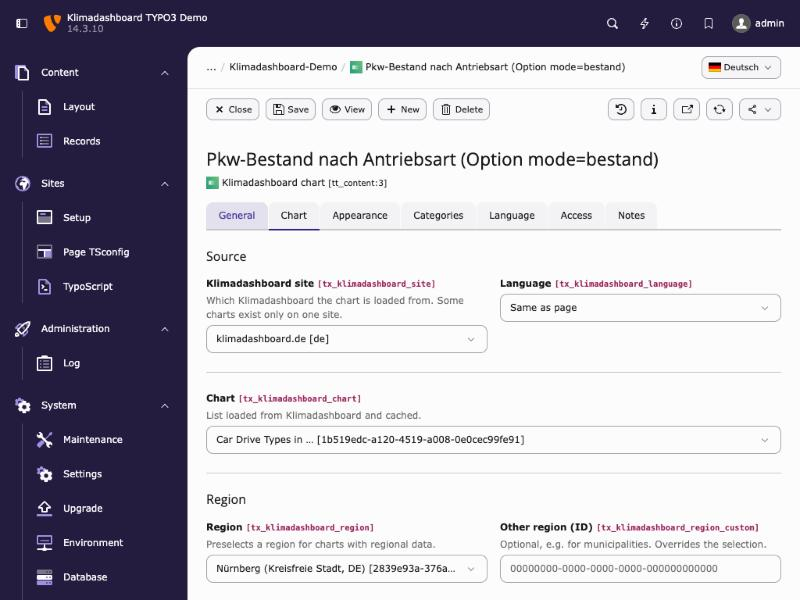
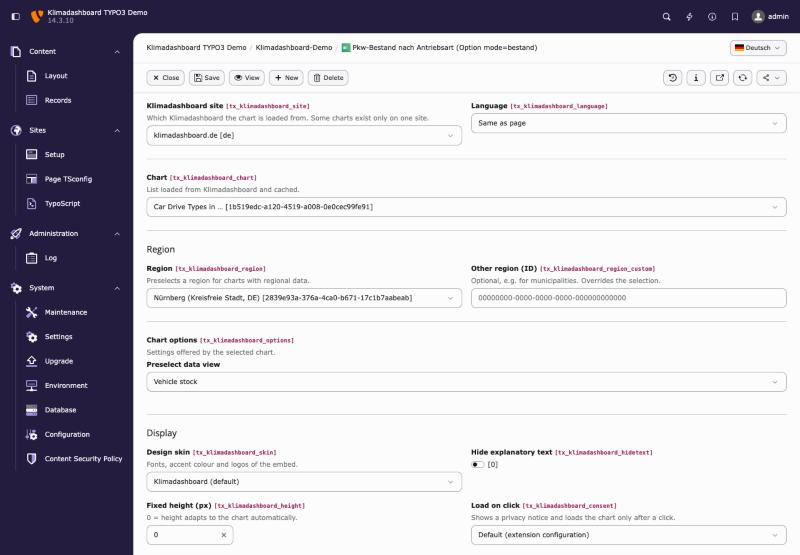
Render the chart options label on TYPO3 v14; refresh screenshots
TYPO3 v14 form elements render their own label, so the options element is
wrapped in a fieldset with legend there.

Changed region(s): [[0.0, 0.0, 1.0, 1.0], [0.5938, 0.7964, 0.8125, 0.8577]]

diff --git a/Classes/Form/Element/EmbedOptionsElement.php b/Classes/Form/Element/EmbedOptionsElement.php
@@ -9,6 +9,7 @@ use Klimadashboard\Typo3\Service\EmbedUrlBuilder;
 use Klimadashboard\Typo3\Service\KlimadashboardApi;
 use Klimadashboard\Typo3\Service\Settings;
 use TYPO3\CMS\Backend\Form\Element\AbstractFormElement;
+use TYPO3\CMS\Core\Information\Typo3Version;
 use TYPO3\CMS\Core\Utility\GeneralUtility;
 
 /**
@@ -76,10 +77,14 @@ class EmbedOptionsElement extends AbstractFormElement
         $fieldInformationResult = $this->renderFieldInformation();
         $resultArray = $this->mergeChildReturnIntoExistingResult($resultArray, $fieldInformationResult, false);
 
-        $resultArray['html'] = '<div class="formengine-field-item t3js-formengine-field-item">'
+        $html = '<div class="formengine-field-item t3js-formengine-field-item">'
             . $fieldInformationResult['html']
             . '<div class="form-wizards-wrap"><div class="form-wizards-element">' . $html . '</div></div>'
             . '</div>';
+        // TYPO3 v14 elements render their own label; before, the surrounding container did
+        $resultArray['html'] = GeneralUtility::makeInstance(Typo3Version::class)->getMajorVersion() >= 14
+            ? $this->wrapWithFieldsetAndLegend($html)
+            : $html;
         return $resultArray;
     }
 

diff --git a/README.md b/README.md
@@ -24,9 +24,11 @@ charts from [Klimadashboard](https://klimadashboard.org) (klimadashboard.de, .at
 
 Compatible with **TYPO3 11.5 LTS, 12.4 LTS, 13.4 LTS and 14.3 LTS**, PHP 7.4–8.4.
 
-| Frontend (auto-height) | Backend (chart tab) | Click-to-load |
-|---|---|---|
-| ![](Documentation/Images/frontend-demo.jpg) | ![](Documentation/Images/backend-chart-tab.jpg) | ![](Documentation/Images/click-to-load.jpg) |
+| Frontend (auto-height) | Editing form (Chart tab) |
+|---|---|
+| ![](Documentation/Images/frontend-demo.jpg) | ![](Documentation/Images/backend-chart-tab.jpg) |
+| **Page module preview** | **Click-to-load** |
+| ![](Documentation/Images/backend-page-module.jpg) | ![](Documentation/Images/click-to-load.jpg) |
 
 **Test status:** tested end to end on **TYPO3 14.3 / PHP 8.4** and **TYPO3 11.5.41 / PHP 8.1** (DDEV setup
 below): frontend, auto-height, click-to-load, editing form, saving, page module preview, new content element
